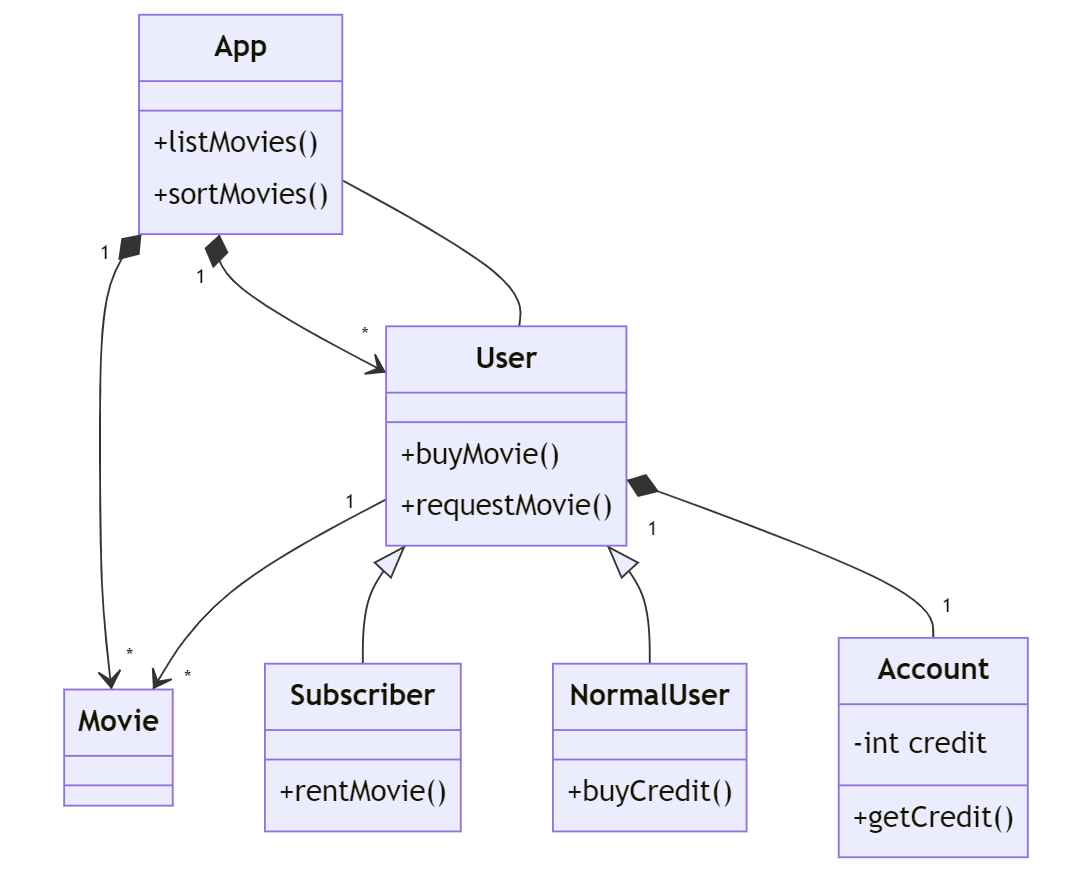
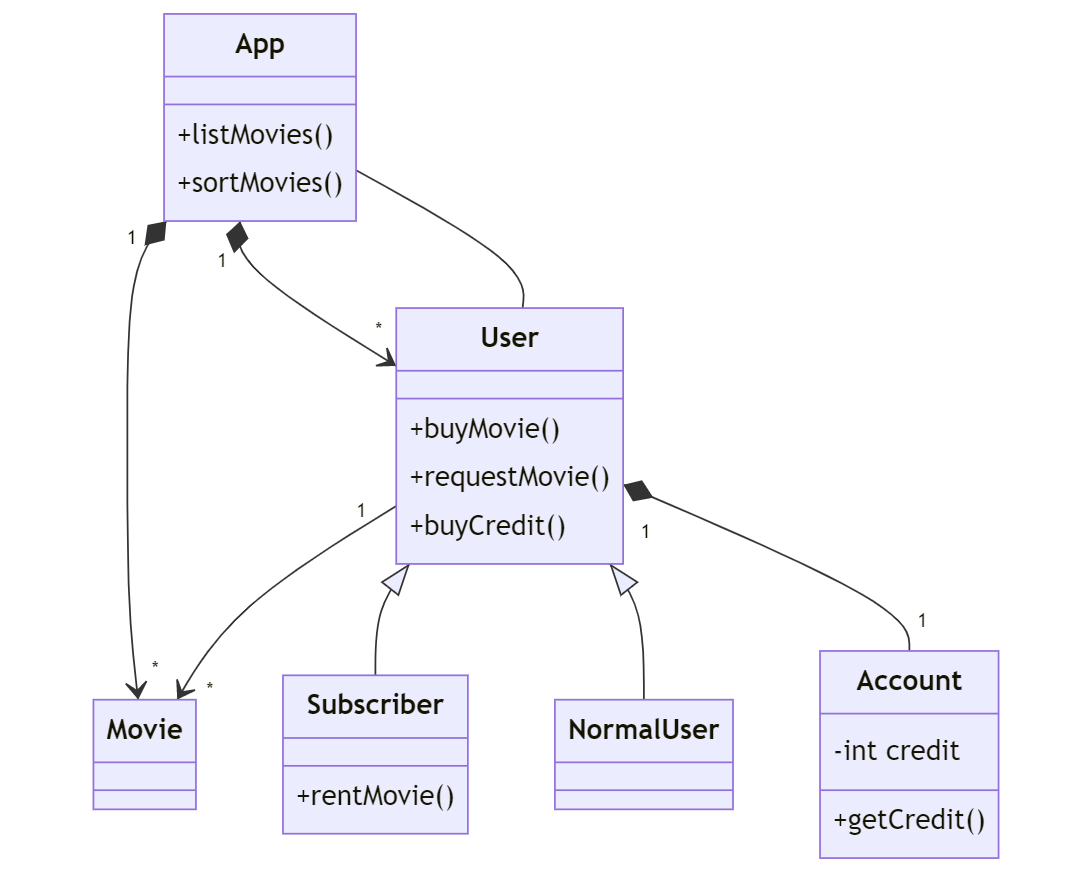
W3 OOP OnlineMovie Fix

diff --git a/weeks/W3/OOP/OnlineMovie.md b/weeks/W3/OOP/OnlineMovie.md
@@ -34,6 +34,7 @@ classDiagram
     class User {
         +buyMovie()
         +requestMovie()
+        +buyCredit()
     }
 
     class Account {
@@ -41,9 +42,7 @@ classDiagram
         +getCredit()
     }
 
-    class NormalUser {
-        +buyCredit()
-    }
+    class NormalUser
 
     class Subscriber {
         +rentMovie()
@@ -60,7 +59,7 @@ classDiagram
 
 Output:
 
-<img src="./OOP-HW4.png" />
+<img src="OOP-HW4.png"/>
 
 Enjoy 🚀 - Doruk
 
